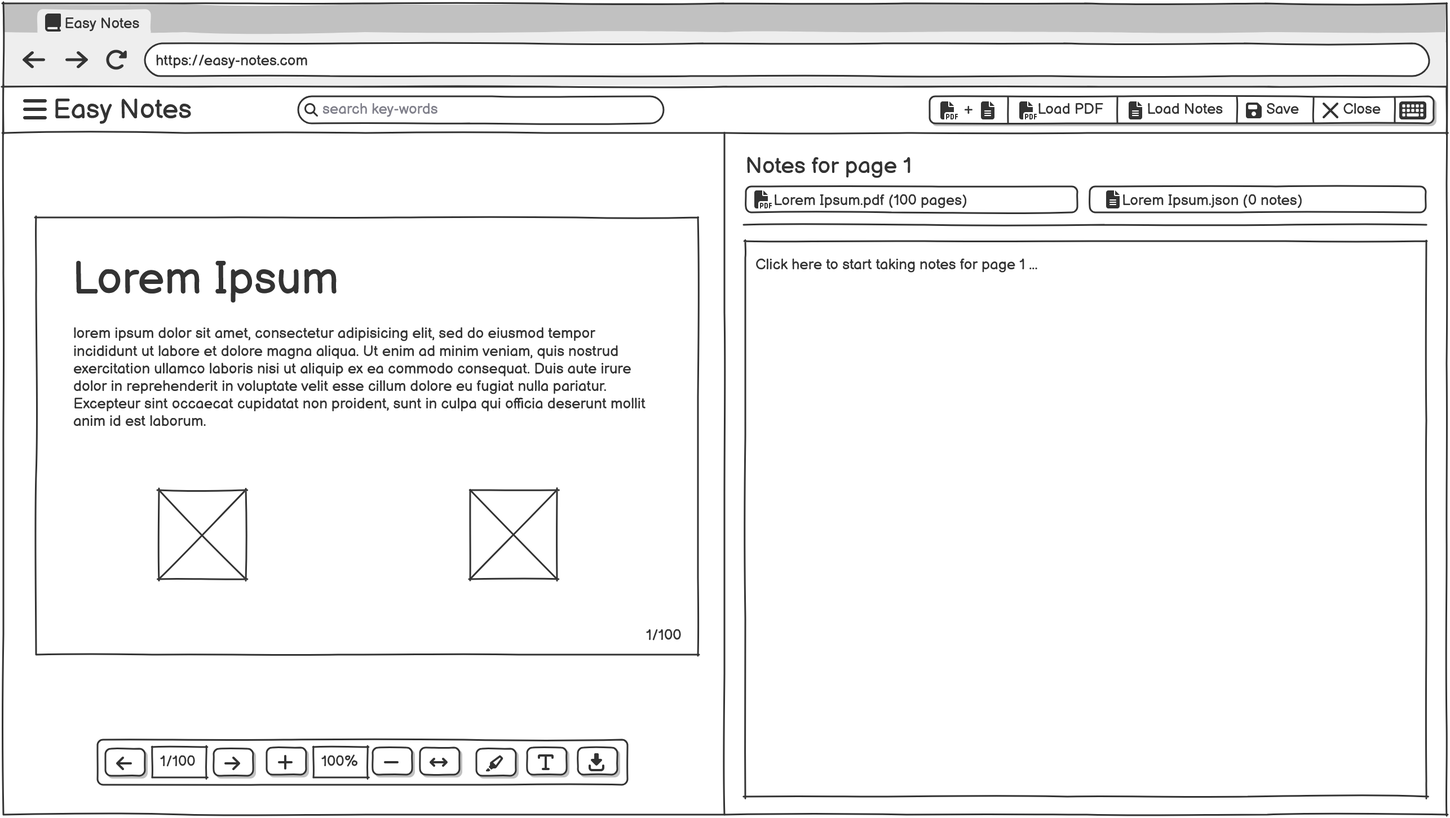
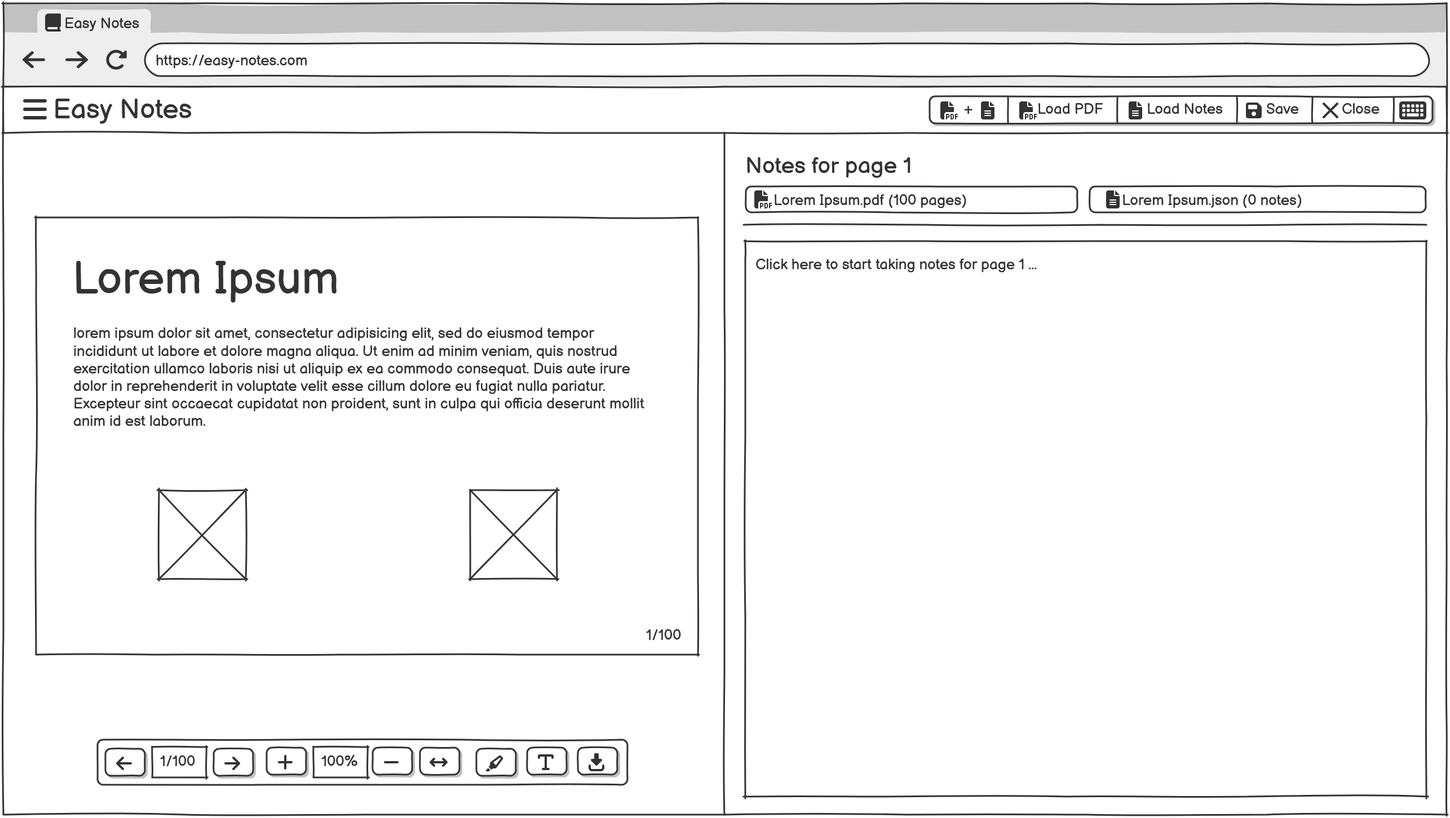
docs: update various chapters for clarity and consistency

diff --git a/report/chapters/code.tex b/report/chapters/code.tex
@@ -60,41 +60,20 @@
 }
 
 \section{Struttura delle pagine e dei componenti}
-Per avere una struttura il più possibile intercambiabile, modulare e coerente tra le pagine, abbiamo deciso di realizzare le pagine come una sorta di quaderno aperto, avendo così all'interno due parti: \textbf{left} e \textbf{right} oltre che sopra a tutto l'header. In questo modo, l'utente non avrà difficoltà a trovare le funzionalità principali dell'applicazione, che saranno sempre nello stesso punto e soprattutto, nel caso si vogliano aggiungere nuove pagine, basterà replicare la struttura e cambiare solo il contenuto delle due sezioni principali. Per farlo abbiamo utilizzato al massimo le funzionalità di Vue.js e Vite di composizione dei componenti.
+Per avere una struttura il più possibile intercambiabile, modulare e coerente tra le pagine, abbiamo deciso di realizzare le pagine come una sorta di quaderno aperto, avendo così all'interno due parti: \textbf{left} e \textbf{right} oltre che l'header in alto. In questo modo, l'utente non avrà difficoltà a trovare le funzionalità principali dell'applicazione, che saranno sempre nello stesso punto e soprattutto, nel caso si vogliano aggiungere nuove pagine, basterà replicare la struttura e cambiare solo il contenuto delle due sezioni principali. Per farlo abbiamo utilizzato al massimo le funzionalità di Vue.js di composizione dei componenti.
 
-Sotto viene proposto un esempio di codice, in particolare della pagina home:
-\begin{lstlisting}[style=html, caption=Struttura Vue della pagina Home]
+Sotto viene proposto un esempio di codice, in particolare della pagina Notebooks:
+\begin{lstlisting}[style=html, caption=Struttura Vue della pagina Notebooks]
 <template>
-    <AppHeader ref="headerRef" @open-notebook="handleOpenNotebook" @close-notebook="handleCloseNotebook"
-        :variant="'tools'" :currentNotebook="openedNotebook" :currentNotebookPage="currentNotebookPage" />
-    <MainStructure>
-        <template #left>
-            <PdfPage v-if="openedNotebook?.type === 'slide'" :notebook="openedNotebook" :currentPage="currentPdfPage"
-                @page-next="handlePageNext" @page-prev="handlePagePrev" />
-            <NotePage ref="notePageLeftRef" v-else-if="openedNotebook?.type === 'simple'" :notebook="openedNotebook"
-                :currentPage="currentNotebookPage" />
-            <div v-else
-                class="h-full flex-1 w-full rounded-tl-[10px] rounded-bl-[10px] flex flex-col items-center justify-center gap-4 p-8">
-                <img src="../assets/pdf.svg" class="w-24 h-24 opacity-30" alt="" />
-                <h2 class="text-2xl font-bold text-gray-400">No PDF opened</h2>
-                <p class="text-gray-500 text-center max-w-md">Open a notebook with PDF from the header options to view
-                    slides</p>
-            </div>
-        </template>
-        <template #right>
-            <NotePage ref="notePageRightRef" v-if="openedNotebook?.type === 'slide'" :notebook="openedNotebook"
-                :currentPage="currentNotebookPage" />
-            <NotePage ref="notePageRightRef" v-else-if="openedNotebook?.type === 'simple'" :notebook="openedNotebook"
-                :currentPage="currentNotebookPage + 1" />
-            <div v-else
-                class="h-full flex-1 w-full rounded-tr-[10px] rounded-br-[10px] flex flex-col items-center justify-center gap-4 p-8">
-                <img src="../assets/notes.svg" class="w-24 h-24 opacity-30" alt="" />
-                <h2 class="text-2xl font-bold text-gray-400">No notebook opened</h2>
-                <p class="text-gray-500 text-center max-w-md">Create a new notebook or open an existing one to start
-                    taking notes</p>
-            </div>
-        </template>
-    </MainStructure>
+  <AppHeader :username="authStore.user?.email"/>
+  <MainStructure>
+    <template #left>
+      <NotebooksList :summaryId="summaryId" @select-notebook="handleSelectNotebook" />
+    </template>
+    <template #right>
+      <PdfPreviewPage :notebook="selectedNotebook" />
+    </template>
+  </MainStructure>
 </template>
 \end{lstlisting}
 
@@ -166,10 +145,10 @@ exports.summarizeNotebook = async (req, res) => {
 \end{lstlisting}
 
 \section{Notifiche push}
-Le notifiche push sono state implementate utilizzando la libreria \texttt{web-push} di Node.js. Questa libreria consente di inviare notifiche push ai client registrati, permettendo così di informare gli utenti su eventi importanti anche quando non stanno utilizzando attivamente l'applicazione. Per farlo abbiamo generato una coppia di chiavi VAPID (Voluntary Application Server Identification) che vengono utilizzate per autenticare il server di notifiche push con i client. Alla prima iscrizione ad una classe, l'app chiede il permesso di inviare notifiche push all'utente e registra il suo dispositivo con il server di notifiche push sul database. Quando un nuovo pdf viene aggiunto ad una classe a cui si è iscritti, il server invia una notifica push a tutti i dispositivi registrati per quella classe. Le notifiche vengono anche usate quando si chiede il riassunto delle note, per informare l'utente quando il riassunto è pronto per essere visualizzato ed eventualmente scaricato.
-Di seguito un esempio di codice che mostra come viene inviata una notifica push quando viene aggiunto un nuovo pdf ad una classe:
+Le notifiche push sono state implementate utilizzando la libreria \texttt{web-push} di Node.js. Questa libreria consente di inviare notifiche push ai client registrati, permettendo così di informare gli utenti su eventi importanti anche quando non stanno utilizzando attivamente l'applicazione. Per farlo abbiamo generato una coppia di chiavi VAPID (Voluntary Application Server Identification) che vengono utilizzate per autenticare il server di notifiche push con i client. Alla prima iscrizione ad una classe oppure alla richiesta di un riassunto, l'app chiede il permesso di inviare notifiche push all'utente e registra il suo dispositivo con il server di notifiche push sul database. Quando un nuovo pdf viene aggiunto ad una classe a cui si è iscritti, il server invia una notifica push a tutti i dispositivi registrati per quella classe. Le notifiche vengono anche usate quando si chiede il riassunto delle note, per informare l'utente quando il riassunto è pronto per essere visualizzato ed eventualmente scaricato.
+Di seguito un esempio di codice che mostra come viene inviata una notifica push:
 
-\begin{lstlisting}[style=javascript, caption=Invio notifica push all'aggiunta di un nuovo PDF]
+\begin{lstlisting}[style=javascript, caption=Invio notifica push]
 const sendNotification = async (userId, payload) => {
     try {  
         const subs = await subscriptionModel.find({ userId: userId });    
@@ -203,49 +182,10 @@ const sendNotification = async (userId, payload) => {
         console.error('Error in sendNotification:', error);
     }
 };
-
-exports.uploadPdfToClass = async (req, res) => {
-  const classId = req.params.id;
-  const { pdfs } = req.body;
-
-  if (!pdfs || !Array.isArray(pdfs)) {
-    return res.status(400).json({ error: "PDF IDs array is required" });
-  }
-
-  try {
-    const classDoc = await classesModel.findById(classId);
-    if (!classDoc) {
-      return res.status(404).json({ error: "Class not found" });
-    }
-    classDoc.pdfs = pdfs;
-    await classDoc.save();
-    const newPdfId = pdfs[pdfs.length - 1];
-    const newPdf = await pdfModel.findById(newPdfId);
-    if (newPdf) {
-      const users = await userModel.find({ classes: classId }).select("email");
-      const notificationPromises = users.map((user) => {
-        return sendNotification(user.email, {
-          title: "New PDF Uploaded",
-          body: `A new PDF ${newPdf.name} has been uploaded to your class ${classDoc.name}.`,
-          data: {
-            type: "NEW_PDF",
-            pdfId: newPdfId,
-            classId: classId,
-          },
-        });
-      });
-      await Promise.all(notificationPromises);
-    }
-
-    res.status(200).json(classDoc);
-  } catch (err) {
-    res.status(500).json({ error: err.message });
-  }
-};
 \end{lstlisting}
 
 \section{Watcher per il salvataggio automatico delle note}
-Per salvare sempre correttamente lo stato corrente del notebook, la variabile noteContent è collegata al contenuto della textarea tramite v-model di Vue. Inoltre, utilizzando un watcher, ad ogni aggiornamento del contenuto della textarea e quindi di noteContent, si effettua un salvataggio automatico delle note nel database. In questo modo, l'utente non rischia di perdere le modifiche apportate alle sue note in caso di chiusura accidentale dell'applicazione o di crash del sistema e non si deve preoccupare di salvare manualmente le modifiche. Infine, tramite l'utilizzo della libreria marked, si può visualizzare in tempo reale l'anteprima delle note in formato markdown. Di seguito un esempio di codice che mostra come viene implementato il watcher per il salvataggio automatico delle note e l'anteprima in markdown:
+Per salvare sempre correttamente lo stato corrente del notebook, la variabile noteContent è collegata al contenuto della textarea tramite v-model di Vue. Inoltre, utilizzando un watcher, ad ogni aggiornamento del contenuto della textarea e quindi di noteContent, si effettua un salvataggio automatico delle note nello stato locale. Infine, tramite l'utilizzo della libreria marked, si può visualizzare in tempo reale l'anteprima delle note in formato markdown. Di seguito un esempio di codice che mostra come viene implementato il watcher per il salvataggio automatico delle note e l'anteprima in markdown:
 \begin{lstlisting}[style=javascript, caption=Watcher per il salvataggio automatico delle note e anteprima markdown]
 const renderedContent = computed(() => {
   if (!noteContent.value) return '';

diff --git a/report/chapters/conclusions.tex b/report/chapters/conclusions.tex
@@ -1,2 +1,2 @@
 \chapter{Conclusions}
-L'idea di realizzare questa applicazione è nata da una nostra esigenza pratica, ovvero quella di avere una applicazione semplice e pratica per prendere appunti durante le lezioni universitarie. Fin da subito quindi la nostra motivazione all'idea di sviluppare Easy Notes è stata molto alta. Noi stessi siamo studenti e quindi abbiamo cercato di creare un'applicazione che rispondesse in modo concreto alle nostre esigenze e a quelle dei nostri colleghi. Il corso di Applicazioni e Servizi Web è stato un'occasione per conciliare la nostra idea con le conoscenze acquisite, mettendoci alla prova con la creazione di un'applicazione web moderna e completa che includesse tutti i livelli di uno stack web basato sul paradigma Javascript Everywhere. Fin dalle prime fasi di analisi dei requisiti e progettazione delle schermate dell'applicazione, il nostro obiettivo è stato quello di creare un interfaccia gradevole, minimale e facile da usare. Le funzionalità messe a disposizione dal framework Vue.js ci hanno permesso di implementare l'interfaccia in maniera modulare ed estendibile, oltre che reattiva e centrata sull'esperienza utente. La metafora del quaderno digitale, ha contribuito a rendere l'interazione intuitiva e coerente, riducendo la curva di apprendimento per l'utente finale e introducendo un elemento di scheumorfismo che risulta simpatico e può rendere più gradevole l'esperienza di utilizzo durante le lezioni. Dal punto di vista tecnico, oltre alle sfide legate all'implementazione di tutti gli aspetti classici di un'applicazione web, abbiamo avuto l'opportunità di integrare funzionalità avanzate come le notifiche push e la generazione automatica dei riassunti tramite LLM, che hanno arricchito ulteriormente l'applicazione e il nostro bagaglio di conoscenze. Durante lo sviluppo, la suddivisione dei lavori adottata e l'approccio agile hanno permesso a ciascun membro del team di toccare con mano tutti i livelli dello stack di sviluppo, dal design dell'interfaccia utente alla gestione e modellazione dei dati nel database, oltre che il design e l'implementazione delle API RESTful per la comunicazione tra frontend e backend. In conclusione siamo contenti di dire che l'esperienza di sviluppo di Easy Notes è stata molto positiva e formativa, la nostra precedente esperienza di sviluppo come gruppo ci ha permesso di lavorare in modo efficiente e collaborativo, ogni membro ha contribuito con le proprie competenze e idee, portando alla realizzazione di un prodotto finale di cui siamo molto soddisfatti. 
+L'idea di realizzare questo progetto è nata da una nostra esigenza pratica, ovvero quella di avere una applicazione semplice e pratica per prendere appunti durante le lezioni universitarie. Fin da subito quindi la nostra motivazione all'idea di sviluppare Easy Notes è stata molto alta. Noi stessi siamo studenti e quindi abbiamo cercato di creare un'applicazione che rispondesse in modo concreto alle nostre esigenze e a quelle dei nostri colleghi. Il corso di Applicazioni e Servizi Web è stato un'occasione per conciliare la nostra idea con le conoscenze acquisite, mettendoci alla prova con la creazione di un'applicazione web moderna e completa che includesse tutti i livelli di uno stack web basato sul paradigma Javascript Everywhere. Fin dalle prime fasi di analisi dei requisiti e progettazione delle schermate dell'applicazione, il nostro obiettivo è stato quello di creare un interfaccia gradevole, minimale e facile da usare. Le funzionalità messe a disposizione dal framework Vue.js ci hanno permesso di implementare l'interfaccia in maniera modulare ed estendibile, oltre che reattiva e centrata sull'esperienza utente. La metafora del quaderno digitale, ha contribuito a rendere l'interazione intuitiva e coerente, riducendo la curva di apprendimento per l'utente finale e introducendo un elemento di scheumorfismo che risulta simpatico e può rendere più gradevole l'esperienza di utilizzo durante le lezioni. Dal punto di vista tecnico, oltre alle sfide legate all'implementazione di tutti gli aspetti classici di un'applicazione web, abbiamo avuto l'opportunità di integrare funzionalità avanzate come le notifiche push e la generazione automatica dei riassunti tramite LLM, che hanno arricchito ulteriormente l'applicazione e il nostro bagaglio di conoscenze. Durante lo sviluppo, la suddivisione dei lavori adottata e l'approccio agile hanno permesso a ciascun membro del team di toccare con mano tutti i livelli dello stack di sviluppo, dal design dell'interfaccia utente alla gestione e modellazione dei dati nel database, oltre che il design e l'implementazione delle API RESTful per la comunicazione tra frontend e backend. In conclusione siamo contenti di dire che l'esperienza di sviluppo di Easy Notes è stata molto positiva e formativa, la nostra precedente esperienza di sviluppo come gruppo ci ha permesso di lavorare in modo efficiente e collaborativo, ogni membro ha contribuito con le proprie competenze e idee, portando alla realizzazione di un prodotto finale di cui siamo molto soddisfatti. 

diff --git a/report/chapters/sections/components-diagram.tex b/report/chapters/sections/components-diagram.tex
@@ -4,17 +4,16 @@ che sfrutta profondamente i mockup stessi. \\
 Il design architetturale dell'applicazione può essere rappresentato come l'unione di più blocchi, 
 anche detti componenti, che messi insieme costruiscono le schermate dell'applicazione stessa. 
 Ogni componente contiene al suo interno sia la parte logica che grafica necessaria al suo funzionamento. \\
-Il diagramma dei componenti offre la possibilità di definire a priori gli oggetti che saranno centrali
+Il diagramma offre la possibilità di definire a priori gli oggetti che saranno centrali
 nelle fasi di sviluppo, oltre a consentire una più semplice organizzazione del lavoro tra i membri
 del gruppo. \\
 Per semplicità di presentazione ogni schermata principale dell'applicazione è stata scomposta
-nei suoi componenti principali, che sono stati poi rappresentati nel diagramma seguente. \\
-In Figura \ref{fig:cd_home} è possibile osservare il diagramma dei componenti della schermata principale.
-Degni di nota i componenti composti che racchiudono al loro interno altri componenti più piccoli. Questo 
-perché alcuni componenti sono solo la composizione di alcuni più piccoli ma non per questo perdono la 
-loro validità come tali. \\
-Alcuni dei componenti riportano anche degli attributi; questo perché non tutti hanno un comportamento
-indipendente da altri componenti, dunque è utile specificare quali dati essi devono
+nelle sue parti principali, che sono state poi rappresentate nei diagrammi seguenti. \\
+In Figura \ref{fig:cd_home} è possibile osservare il diagramma della schermata principale.
+Degni di nota i componenti composti che ne racchiudono altri. Questo perché alcuni elementi 
+della pagina sono solo la composizione di parti più piccole, che sono a loro volta componenti riutilizzabili. \\
+Alcuni dei componenti riportano anche degli attributi; questo perché non tutti hanno un comportamento unico
+ma possono variare in base alle informazioni che ricevono, dunque è utile specificare quali dati essi devono
 ricevere per poter funzionare correttamente. Non è detto che corrisponderanno fedelmente all'effettiva 
 implementazione ma dovrebbero essere usati come linee guida. \\
 È già possibile notare come i componenti di questa pagina corrispondano fedelmente a quelli del mockup. \\
@@ -28,7 +27,7 @@ implementazione ma dovrebbero essere usati come linee guida. \\
 
 A seguire in Figura \ref{fig:cd_notes} e \ref{fig:cd_classes}
 sono rappresentati i diagrammi dei componenti delle altre pagine principali dell'applicazione. \\
-Qui invece è interessante come già alcuni componenti, seppure in forma differente, si ripetano in più pagine.
+Qui invece è interessante notare come già alcuni componenti, seppure in forma differente, si ripetano in più pagine.
 Questo è proprio il concetto di riusabilità dei componenti, che permette di velocizzare lo sviluppo
 e mantenere una coerenza grafica tra le varie schermate. \\
 
@@ -65,6 +64,8 @@ e contengono meno componenti. \\
     \label{fig:cd_login}
 \end{figure}
 
+\newpage
+
 Per concludere, sebbene i diagrammi abbiano una struttura gerarchica dovrebbero essere pensati come
 macro-componenti a sé, nei quali è possibile anche una comunicazione bidirezionale. Le frecce
-sono solo usate per indicare la direzione delle dipendenze funzionali tra i vari componenti.
+non indicano un flusso di dati unidirezionale ma solo una relazione di "contiene" tra i componenti. \\

diff --git a/report/chapters/technologies.tex b/report/chapters/technologies.tex
@@ -1,10 +1,9 @@
 \chapter{Tecnologie}
-In questo capitolo vengono descritte le tecnologie adottate per lo sviluppo dell'applicazione Easy Notes, insieme alle motivazioni che hanno portato a tali scelte.
 \section{Stack}
 L'applicazione è sviluppata utilizzando lo stack \b{MEVN}, per cui:
 \begin{itemize}
     \item \textbf{MongoDB} come database NoSQL per la gestione dei dati;
-    \item \textbf{Express.js} come framework backend per Node.js;
+    \item \textbf{Express.js} come framework backend di Node.js;
     \item \textbf{Vue.js} come framework frontend per la costruzione dell'interfaccia utente;
     \item \textbf{Node.js} come runtime environment per l'esecuzione del codice JavaScript.
 \end{itemize}
@@ -19,13 +18,15 @@ Per lo sviluppo dell'applicazione sono state utilizzate le seguenti librerie e f
     \item \textbf{Mongoose}: per la modellazione degli oggetti MongoDB in ambiente Node.js, semplificando l'interazione con il database attraverso uno schema definito;
     \item \textbf{Axios}: per effettuare richieste HTTP dal frontend Vue.js al backend Express.js, facilitando la comunicazione tra client e server;
     \item \textbf{Vue Router}: per la gestione della navigazione tra le diverse pagine dell'applicazione Vue.js, permettendo una struttura a singola pagina (SPA);
-    \item \textbf{Cerebras SDK}: per l'integrazione con i modelli di intelligenza artificiale offerti da Cerebras, utilizzati per riassumere note e pdf
+    \item \textbf{Cerebras SDK}: per l'integrazione con i modelli di intelligenza artificiale offerti da Cerebras, utilizzati per riassumere note e pdf;
+    \item \textbf{Web Push}: per implementare le notifiche push nel browser.
 \end{itemize}
 
 \section{Strumenti di Sviluppo}
 Per lo sviluppo dell'applicazione sono stati utilizzati i seguenti strumenti:
 \begin{itemize}
     \item \textbf{Visual Studio Code}: come ambiente di sviluppo integrato (IDE) per la scrittura e la gestione del codice sorgente;
-    \item \textbf{Swagger}: per testare e debug le API RESTful sviluppate con Express.js, facilitando la verifica delle funzionalità del backend;
-    \item \textbf{Git}: per il controllo di versione del codice sorgente, permettendo una gestione efficiente delle modifiche e la collaborazione tra sviluppatori;
+    \item \textbf{Swagger}: per test e debug delle API RESTful sviluppate con Express.js, facilitando la verifica delle funzionalità del backend;
+    \item \textbf{Google Sheets}: per la gestione e l'organizzazione delle attività di progetto in stile SCRUM;
+    \item \textbf{Git}: per il controllo di versione del codice sorgente, permettendo una gestione efficiente delle modifiche e la collaborazione tra sviluppatori.
 \end{itemize}

diff --git a/report/chapters/sections/mockup.tex b/report/chapters/sections/mockup.tex
@@ -2,12 +2,11 @@
 Una parte estensiva del design si è concentrata sulla progettazione dell'interfaccia utente. 
 Infatti, era cruciale dal punto di vista della nostra app che tutte le funzionalità offerte 
 fossero facilmente accessibili e utilizzabili dagli utenti finali. 
-Per questo motivo, la pagine principale in Figura \ref{fig:mockup_home} dell'applicazione è 
+Per questo motivo, la pagina principale in Figura \ref{fig:mockup_home} dell'applicazione è 
 molto dettagliata e contiene al suo interno tutte le funzionalità principali dell'applicazione.
 Come si può notare, la pagina è divisa a metà fra slides e note, una per pagina. Per il 
 pdf sono presenti tutti i comandi per navigare o modificare il documento. Nella parte alta
-sono presenti i comandi per la gestione delle note, come l'aggiunta, la modifica e la
-cancellazione, nonché la possibilità di cercare per una parola chiave all'intero delle pagine. \\
+sono presenti i comandi per la gestione delle note, come il salvataggio e l'apertura di un notebook.\\
 
 \begin{figure}[h!]
     \centering
@@ -22,7 +21,7 @@ dell'applicazione:
     \item Home, la pagina principale dell'applicazione.
     \item Notes in Figura \ref{fig:mockup_notes}, la pagina dove l'utente può visualizzare tutte le note salvate insieme
     alle slides in un unico elenco.
-    \item Classes, la pagina dove l'utente può visualizzare tutte le classi a cui partecipa.
+    \item Classes, la pagina dove l'utente può visualizzare tutte le classi.
     Cambia aspetto a seconda del ruolo dell'utente:
     \begin{itemize}
         \item Figura \ref{fig:mockup_classes_student} mostra l'aspetto per gli studenti, 
@@ -69,7 +68,7 @@ dell'applicazione:
     \label{fig:mockup_profile}
 \end{figure}
 
-Ogni pagina all'infuori della Home necessita di un account per essere visualizzata.
+Ogni pagina necessita di un account per essere visualizzata.
 Per questo motivo, la pagina di login in Figura \ref{fig:mockup_login} permette agli utenti
 di autenticarsi all'applicazione. \\
 La figura \ref{fig:mockup_signin} mostra invece la pagina di registrazione, dove l'utente

diff --git a/report/chapters/test.tex b/report/chapters/test.tex
@@ -14,17 +14,24 @@ e poi una volta completata l'integrazione, entrambe nello stesso momento. \\
     generata automaticamente, in fase di sviluppo tramite il comando \texttt{npm run dev}, 
     a partire dal file di specifica OpenAPI che abbiamo redatto per documentare le api stesse.
     Come si può vedere in figura \ref{fig:swagger} sono visibili tutte le nostre api divise
-    per protocollo utilizzato, ognuna singolarmente testabile, e, in fondo, 
+    per protocollo utilizzato, ognuna singolarmente testabile, e, in figura \ref{fig:swagger-schemas}
     gli schemi utilizzati nelle richieste.
     \begin{figure}[h!]
         \centering
-        \includegraphics[width=1\textwidth]{figures/swagger.png}
+        \includegraphics[width=1\textwidth]{figures/swagger-api.png}
         \caption{Swagger UI}
         \label{fig:swagger}
+    \end{figure}
+    \begin{figure}[h!]
+        \centering
+        \includegraphics[width=1\textwidth]{figures/swagger-schemas.png}
+        \caption{Swagger UI - Schemi}
+        \label{fig:swagger-schemas}
     \end{figure}
     \item \textbf{Frontend} \par
     Per il frontend sono stati eseguiti test manuali, in quanto l'interfaccia grafica
     richiede un'interazione umana che non può essere simulata in maniera automatica.
+    \newpage
     \item \textbf{Integrazione} \par
     Per l'integrazione tra frontend e backend sono stati eseguiti test manuali,
     in quanto è necessario verificare che le richieste inviate dal frontend vengano correttamente gestite

diff --git a/report/chapters/introduction.tex b/report/chapters/introduction.tex
@@ -6,14 +6,12 @@ prendere appunti direttamente in relazione alle slide delle lezioni, comunemente
 in ambito universitario. \\
 Infatti, la funzionalità principale del sistema è avere, per ogni
 pagina di slide, una pagina dedicata agli appunti che l'utente può prendere liberamente.
-Ogni blocco di appunti può essere poi salvato direttamente insieme alle relative slide, sia in
-locale che sul cloud. \\
+Ogni blocco di appunti può essere poi salvato direttamente insieme alle relative slide sul cloud. \\
 Inoltre, anche i professori possono registrarsi al sistema per poter creare le loro classi in 
 formato digitale dove caricare le slide del corso, in modo che gli utenti possano facilmente
 caricarle per prenderci appunti in un'unica piattaforma. Ogni studente può poi iscriversi al corso
 per poter essere notificato quando il professore carica nuovo materiale didattico. \\
 Infine, il sistema prevede anche una funzionalità di riassunto automatico degli appunti presi,
-tramite tecniche di machine learning, in modo da facilitare lo studio in vista degli esami. \\
+tramite intelligenza artificiale, in modo da facilitare lo studio in vista degli esami. \\
 In questo report verranno descritte le varie fasi di sviluppo del progetto, dalle
-scelte tecnologiche al design dell'architettura, fino ai test effettuati su utenti reali e 
-al deployment della Web App.
+scelte tecnologiche al design dell'architettura, fino al deployment della Web App.

diff --git a/report/chapters/sections/functional-requirements.tex b/report/chapters/sections/functional-requirements.tex
@@ -9,12 +9,10 @@
     \item Uno studente deve poter iscriversi e disiscriversi dalle classi.
     \item Uno studente deve poter attivare le notifiche per la pubblicazione di nuove slide nelle classi a cui è iscritto.
     \item Uno studente deve poter scaricare le slide caricate nelle classi a cui è iscritto.
-    \item Uno studente deve poter caricare le proprie slides in un archivio personale dell'applicazione.
     \item Un professore deve poter creare e cancellare slide associate alle proprie classi.
-    \item Uno studente deve poter prendere appunti associati alle slide scaricate.
+    \item Uno studente deve poter prendere appunti associati alle slide.
     \item Uno studente deve poter prendere appunti generici non associati a nessuna slide.
-    \item Uno studente deve poter evidenziare parti delle slide scaricate.
-    \item Uno studente deve poter cercare parole chiave all'interno delle proprie note e slide.
+    \item Uno studente deve poter evidenziare parti delle slide.
     \item Uno studente deve poter riassumere in automatico le proprie note.
 \end{itemize}
 

diff --git a/report/chapters/sections/sequence-diagrams.tex b/report/chapters/sections/sequence-diagrams.tex
@@ -11,7 +11,7 @@ Nel diagramma è omessa la parte relativa alla richiesta del consenso e della re
 \end{figure}
 
 \subsection{Notifica generazione riassunto tramite LLM}
-In figura \ref{fig:seq_llm} è possibile vedere il diagramma di sequenza relativo alla generazione di un riassunto tramite LLM. In questo caso, lo studente richiede al server la generazione del riassunto per un determinato Notebook. Il server, a sua volta, invia la richiesta al servizio di LLM e, una volta ricevuta la risposta, la inoltra allo studente. La notifica viene inviata al dispositivo dello studente tramite il servizio di notifiche push.
+In figura \ref{fig:seq_llm} è possibile vedere il diagramma di sequenza relativo alla generazione di un riassunto tramite LLM. In questo caso, lo studente richiede al server la generazione del riassunto per un determinato Notebook. Il server, a sua volta, invia la richiesta al servizio di LLM e, una volta ricevuta la risposta, la inoltra allo studente.
 \begin{figure}[h!]
     \centering
     \includegraphics[width=1\textwidth]{diagrams/Sequence-llm.png}

diff --git a/report/chapters/sections/personas.tex b/report/chapters/sections/personas.tex
@@ -34,8 +34,8 @@ Marco è uno studente che frequenta regolarmente le lezioni e utilizza quotidian
         \item Marco accede a Easy Notes
         \item Seleziona il corso a cui è iscritto e apre le slide della lezione.
         \item Per ogni slide visualizzata, inserisce appunti testuali nella sezione dedicata.
-        \item Al termine della lezione salva automaticamente appunti e slide sul cloud
-        \item Arrivato a casa, Marco utilizza la funzionalità di riassunto automatico per prepararsi allo studio.
+        \item In alcune slide aggiunge post-it ed evidenziazioni per ricordarsi concetti importanti espressi dal professore.
+        \item Al termine della lezione salva appunti e slide sul cloud.
     \end{enumerate}
 \end{itemize}
 

diff --git a/report/chapters/deployment.tex b/report/chapters/deployment.tex
@@ -97,7 +97,7 @@ npm run dev
     \begin{itemize}
         \item Aprire il browser e navigare su \url{http://localhost:5173}
         \item Creare un nuovo account o effettuare il login
-        \item Iniziare a creare notebook e prendere appunti!
+        \item Iniziare a creare notebook e prendere appunti.
     \end{itemize}
 \end{enumerate}
 

diff --git a/report/easy-notes-report.tex b/report/easy-notes-report.tex
@@ -59,9 +59,6 @@ Tommaso Severi - 0001172431 \{tommaso.severi2@studio.unibo.it\}}
 \input{./chapters/conclusions.tex}
 \newpage
 
-% TODO: remove this line when done
-\citep{adams1995hitchhiker}
-
 \bibliographystyle{plain}
 \bibliography{references}
 \end{document}
